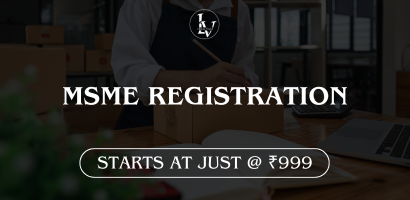
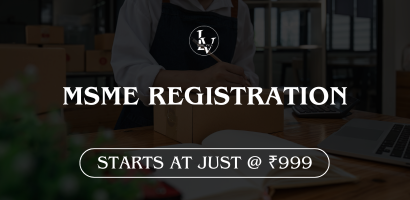
required changes done in about us, home page and all other screens

Changed region(s): [[0.439, 0.03, 0.5561, 0.27]]

diff --git a/src/pages/AboutUs.js b/src/pages/AboutUs.js
@@ -7,74 +7,80 @@ import "slick-carousel/slick/slick-theme.css";
 import Slider from "react-slick";
 
 const AboutUs = () => {
-    const testimonials = [
-        {
-          name: "Surendra Saini",
-          role: "Director, Domantra Innovations Pvt Ltd",
-          text: "We at Domantra Innovations are extremely satisfied with the company management services provided by Legalvala.Himanshu helped me with my ROC compliances and is always available for better solutions. Highly recommended!",
-          image: "/assets/people/boy (1).png",
-        },
-        {
-          name: "Satish Chauhan",
-          role: "CPPO, Blazing Render Creation Hub LLP",
-          text: "I got my GST registration done through Legalvala, and I am very happy with their service. The team is highly professional and handled everything smoothly. I highly recommend Legalvala for all your legal and business needs!",
-          image: "/assets/people/man-with-glasses.png",
-        },
-        {
-          name: "Mohini Bhadoriya",
-          role: "Director, Startfinity Navigator Pvt Ltd",
-          text: "I availed the Company Registration and Compliance Package from Legalvala. Their pricing was the best in the market, and the entire process was fast, smooth, and transparent. I continue to work with them for their excellent service.",
-          image: "/assets/people/girl (1).png",
-        },
-        {
-          name: "Gajendra Singh",
-          role: "Proprietor, Deepika Enterprises",
-          text: "I am very happy with the GST registration service from Legalvala. Their team was professional, and we received our GST certificate within 4-5 days! Highly recommend them for quick and reliable legal services. Thank you!",
-          image: "/assets/people/boy (2).png",
-        },
-        {
-          name: "Akash Kumar",
-          role: "Relationship Manager, HDFC Bank Ltd",
-          text: "I got my Income Tax Return filed through Legalvala, and it was a great experience! The process was quick, hassle-free, and transparent. Their team is highly professional and supportive. Definitely a 5-star experience!",
-          image: "/assets/people/boy.png",
-        },
-        {
-          name: "Charan Singh",
-          role: "Owner, PTSK Traders",
-          text: "I got my GST Registration and GST Return Filing done through Legalvala, and their service has been excellent! Their team is highly professional and efficient. They continue to handle my GST filings with great expertise.",
-          image: "/assets/people/man-with-glasses.png",
-        },
-        {
-          name: "Dr Arul Ghandhi",
-          role: "Director, Narmada Exploration & Mining Pvt Ltd",
-          text: "I got ISO 9001, ISO 14001, and OEM certificates for my company from Legalvala. Their service was outstanding! After facing a scam elsewhere, Legalvala regained my trust. Special thanks to Himanshu Ji for handling everything smoothly.",
-          image: "/assets/people/boy.png",
-        },
-      ];
-      
+  const testimonials = [
+    {
+      name: "Surendra Saini",
+      role: "Director, Domantra Innovations Pvt Ltd",
+      text: "We at Domantra Innovations are extremely satisfied with the company management services provided by Legalvala.Himanshu helped me with my ROC compliances and is always available for better solutions. Highly recommended!",
+      image: "/assets/people/boy (1).png",
+    },
+    {
+      name: "Satish Chauhan",
+      role: "CPPO, Blazing Render Creation Hub LLP",
+      text: "I got my GST registration done through Legalvala, and I am very happy with their service. The team is highly professional and handled everything smoothly. I highly recommend Legalvala for all your legal and business needs!",
+      image: "/assets/people/man-with-glasses.png",
+    },
+    {
+      name: "Mohini Bhadoriya",
+      role: "Director, Startfinity Navigator Pvt Ltd",
+      text: "I availed the Company Registration and Compliance Package from Legalvala. Their pricing was the best in the market, and the entire process was fast, smooth, and transparent. I continue to work with them for their excellent service.",
+      image: "/assets/people/girl (1).png",
+    },
+    {
+      name: "Gajendra Singh",
+      role: "Proprietor, Deepika Enterprises",
+      text: "I am very happy with the GST registration service from Legalvala. Their team was professional, and we received our GST certificate within 4-5 days! Highly recommend them for quick and reliable legal services. Thank you!",
+      image: "/assets/people/boy (2).png",
+    },
+    {
+      name: "Akash Kumar",
+      role: "Relationship Manager, HDFC Bank Ltd",
+      text: "I got my Income Tax Return filed through Legalvala, and it was a great experience! The process was quick, hassle-free, and transparent. Their team is highly professional and supportive. Definitely a 5-star experience!",
+      image: "/assets/people/boy.png",
+    },
+    {
+      name: "Charan Singh",
+      role: "Owner, PTSK Traders",
+      text: "I got my GST Registration and GST Return Filing done through Legalvala, and their service has been excellent! Their team is highly professional and efficient. They continue to handle my GST filings with great expertise.",
+      image: "/assets/people/man-with-glasses.png",
+    },
+    {
+      name: "Dr Arul Ghandhi",
+      role: "Director, Narmada Exploration & Mining Pvt Ltd",
+      text: "I got ISO 9001, ISO 14001, and OEM certificates for my company from Legalvala. Their service was outstanding! After facing a scam elsewhere, Legalvala regained my trust. Special thanks to Himanshu Ji for handling everything smoothly.",
+      image: "/assets/people/boy.png",
+    },
+  ];
 
-      const team = [
-        {
-          name: "Mr. Himanshu",
-          role: "Manager / Sr. Consultant / Director",
-          about: "Mr. Himanshu is the Senior Consultant and Manager at LEGALVALA. With over five years of experience in the legal field, he specializes in business compliance and legal advisory. He holds a Bachelor of Business Administration from DBRAU Agra and is currently pursuing CMA from the ICMAI Institute.",
-          image: "/assets/people/himanshu.jpeg",
-        },
-        {
-          name: "Mr. Gajendra Singh",
-          role: "Founder / CEO",
-          about: "Mr. Gajendra Singh is the Founder and CEO of LEGALVALA. With over 15 years of experience in legal services and business management, he has helped numerous businesses achieve compliance and operational efficiency. He holds a Bachelor of Commerce degree from DBRAU.",
-          image: "/assets/people/gajedra.jpeg",
-        },
-        {
-          name: "Mrs. Sakshi Katariya",
-          role: "Human Resources & Consultant",
-          about: "Mrs. Sakshi Katariya is the HR & Consultant at LEGALVALA, responsible for managing the team and overseeing compliance processes. With over three years of experience in human resources and consulting, she has been recognized with the 'Best Consultant' award from LEGALVALA for her outstanding contributions.",
-          image: "/assets/people/sakshi.jpeg",
-        },
-      ];
-      
-      
+
+  const team = [
+    {
+      name: "Mr. Himanshu",
+      role: "Manager / Sr. Consultant / Director",
+      about: "Mr. Himanshu is the Senior Consultant and Manager at LEGALVALA. With over five years of experience in the legal field, he specializes in business compliance and legal advisory. He holds a Bachelor of Business Administration from DBRAU Agra and is currently pursuing CMA from the ICMAI Institute.",
+      image: "/assets/people/himanshu.jpeg",
+    },
+    {
+      name: "Mr. Gajendra Singh",
+      role: "Founder / CEO",
+      about: "Mr. Gajendra Singh is the Founder and CEO of LEGALVALA. With over 15 years of experience in legal services and business management, he has helped numerous businesses achieve compliance and operational efficiency. He holds a Bachelor of Commerce degree from DBRAU.",
+      image: "/assets/people/gajedra.jpeg",
+    },
+    {
+      name: "Mrs. Sakshi Katariya",
+      role: "Human Resources & Consultant",
+      about: "Mrs. Sakshi Katariya is the HR & Consultant at LEGALVALA, responsible for managing the team and overseeing compliance processes. With over three years of experience in human resources and consulting, she has been recognized with the 'Best Consultant' award from LEGALVALA for her outstanding contributions.",
+      image: "/assets/people/sakshi.jpeg",
+    },
+    {
+      name: "Mrs. Shweta Katariya",
+      role: "Business Consultant",
+      about: "Mrs. Shweta Katariya is a Business Consultant at LegalVala, bringing over 3 years of experience in business strategy and legal services. A B.Com graduate from DBRAU, Shweta specializes in helping businesses navigate legal complexities and optimize their operations. At LegalVala, she provides tailored solutions that ensure clients achieve compliance, growth, and success in a competitive market.",
+      image: "/assets/people/shweta.png",
+    },
+  ];
+
+
 
   const settings = {
     dots: true,
@@ -108,10 +114,25 @@ const AboutUs = () => {
       <section className="container py-5">
         <h6 className="guide-text">INTRODUCTION</h6>
         <h5 className="text-center pb-3"><strong>Who We Are</strong></h5>
-        <p className="text-center">
-          LEGALVALA CONSULTANCY LLP is a leading legal and business consultancy firm in India, dedicated to helping individuals, startups, and enterprises navigate legal complexities with ease. 
-          Established in 2020, we have assisted thousands of clients in company registration, tax compliance, trademark registration, and business law.
+
+        <p>
+          Welcome to <strong>LegalVala</strong> - your trusted partner in the world of legal and business services since 2020. We specialize in providing innovative, clear, and effective solutions that empower businesses to not only survive but thrive in today’s fast-paced market.
+          <br /><br />
+          At LegalVala, we understand the challenges businesses face when it comes to legal complexities. That’s why we offer a combination of expert legal advice and smart business strategies designed to help you streamline operations, ensure compliance, and reduce risks. Whether you're a new startup or an established company, we tailor our services to meet your unique needs.
+          <br /><br />
+          Our mission is simple: to make legal and business processes easier, more efficient, and more accessible for every client. We are passionate about building strong relationships and providing support that fosters growth and success.
+          <br /><br />
+          <strong>Why Choose LegalVala?</strong>
+          <ul className="text-start">
+            <li><strong>Expert Legal & Business Services:</strong> We combine legal expertise with strategic business advice to help you navigate every challenge with confidence.</li>
+            <li><strong>Experience You Can Trust:</strong> Since 2020, we’ve helped countless businesses optimize their legal and business strategies for lasting success.</li>
+            <li><strong>Personalized Solutions:</strong> We understand that every business is different. Our services are customized to fit your specific goals and challenges.</li>
+            <li><strong>Results-Oriented Approach:</strong> We’re dedicated to delivering practical solutions that lead to real, measurable outcomes for your business.</li>
+          </ul>
+          <br />
+          At LegalVala, we don’t just provide legal services—we partner with you to drive your business forward. Let us help you achieve your goals, so you can focus on what matters most—growing your business!
         </p>
+
       </section>
 
       {/* OUR EXPERTISE */}
@@ -167,7 +188,14 @@ const AboutUs = () => {
           {team.map((member, index) => (
             <div key={index} className="col-md-4 p-3">
               <div className="card shadow-sm p-3">
-                <img src={member.image} alt={member.name} className="team-img" width="80" />
+                {/* <img src={member.image} alt={member.name} className="team-img" width="100" /> */}
+                <img
+                  src={member.image}
+                  alt={member.name}
+                  width="100"
+                  height="120"
+                  style={{ borderRadius: "0" }}
+                />
                 <h6 className="fw-bold">{member.name}</h6>
                 <p className="text-muted">{member.role}</p>
                 <p className="small">{member.about}</p>

diff --git a/src/pages/Acasa.js b/src/pages/Acasa.js
@@ -15,7 +15,7 @@ const Acasa = () => {
       <div className="home-page">
         <Helmet>
           <title>LegalVala | Legal & Business Solutions</title>
-          
+
           <meta
             name="description"
             content="LegalVala offers professional legal, tax, and business consultancy services, ensuring compliance and growth for individuals and businesses."
@@ -68,7 +68,7 @@ const Acasa = () => {
                   </Link>
                 </div>
                 <div className="col flex-grow-1">
-                  <Link to="/informatii-utile">
+                  <Link to="/avocatura">
                     <button
                       className="btn btn-lg btn-outline-dark type-button p-4 w-100 fw-bold"
                       aria-label="Our Services"
@@ -130,15 +130,15 @@ const Acasa = () => {
               <div className="card-body">
                 <h6 className="guide-text mb-4">INTRODUCTION</h6>
                 <h5 className="lh-base text-center pb-4">
-                  Facing Legal or Business Challenges?
+                  <strong>Facing Legal or Business Challenges?</strong>
                 </h5>
 
                 <p className="text-separator fw-normal text-center px-3">
-  At <strong>LegalVala</strong>, we provide expert guidance in legal, tax, and business compliance. 
-  Our goal is to <strong>simplify complexities</strong> so you can focus on growth.
-  Whether you're an <strong>entrepreneur</strong>, a <strong>startup</strong>, or an <strong>established business</strong>, 
-  we ensure your legal and business needs are met with precision and expertise.
-</p>
+                  At <strong>LegalVala</strong>, we provide expert guidance in legal, tax, and business compliance.
+                  Our goal is to <strong>simplify complexities</strong> so you can focus on growth.
+                  Whether you're an <strong>entrepreneur</strong>, a <strong>startup</strong>, or an <strong>established business</strong>,
+                  we ensure your legal and business needs are met with precision and expertise.
+                </p>
 
               </div>
             </div>
@@ -160,7 +160,7 @@ const Acasa = () => {
         <section className="recommendation p-3 bg-image m-3 px-0">
           <h6 className="guide-text ">OUR EXPERTISE</h6>
           <div className="container d-flex flex-column justify-content-center align-items-center">
-            <h5 className="h-50 lh-base text-center pb-4">Why Choose LEGALVALA?</h5>
+            <h5 className="h-50 lh-base text-center pb-4"><strong>Why Choose LEGALVALA?</strong></h5>
           </div>
           <div className="row mt-4 flex-column flex-md-row mb-3">
             <div className="col col-md-7 order-md-2">
@@ -184,7 +184,7 @@ const Acasa = () => {
             </div>
           </div>
         </section>
-               
+
 
       </div>
     </>

diff --git a/src/pages/Avocatura.js b/src/pages/Avocatura.js
@@ -6,9 +6,9 @@ import ContactForm from "../components/ContactForm";
 const services = [
   { name: "GST REGISTRATION", price: "1499", image: "/assets/product/1.png", description: "Get your GST registered and start your business legally in India." },
   { name: "MSME REGISTRATION", price: "999", image: "/assets/product/2.png", description: "Avail benefits under the MSME scheme for small and medium businesses." },
-  { name: "PRIVATE LIMITED COMPANY REGISTRATION", price: "7999", image: "/assets/product/3.png", description: "Incorporate a Private Limited Company with ease." },
-  { name: "OPC COMPANY REGISTRATION", price: "5999", image: "/assets/product/4.png", description: "Register your One Person Company and get limited liability benefits." },
-  { name: "LLP COMPANY REGISTRATION", price: "6999", image: "/assets/product/5.png", description: "Start your Limited Liability Partnership (LLP) with complete legal support." },
+  { name: "PRIVATE LIMITED COMPANY REGISTRATION", price: "7999", image: "/assets/product/4.png", description: "Incorporate a Private Limited Company with ease." },
+  { name: "OPC COMPANY REGISTRATION", price: "5999", image: "/assets/product/5.png", description: "Register your One Person Company and get limited liability benefits." },
+  { name: "LLP COMPANY REGISTRATION", price: "6999", image: "/assets/product/3.png", description: "Start your Limited Liability Partnership (LLP) with complete legal support." },
   { name: "PUBLIC LIMITED COMPANY REGISTRATION", price: "14999", image: "/assets/product/6.png", description: "Form a Public Limited Company and expand your business reach." },
   { name: "SECTION 8 COMPANY REGISTRATION", price: "7999", image: "/assets/product/7.png", description: "Register your non-profit organization under Section 8." },
   { name: "NGO REGISTRATION", price: "6999", image: "/assets/product/8.png", description: "Start an NGO legally and get the necessary approvals." },

diff --git a/src/App.js b/src/App.js
@@ -1,4 +1,4 @@
-import React from "react";
+import React, { useState } from "react";
 import { BrowserRouter, Routes, Route } from "react-router-dom";
 import { Helmet } from "react-helmet";
 import Info from "./pages/Info";
@@ -10,15 +10,40 @@ import Navbar from "./components/Navbar";
 import Footer from "./components/Footer";
 import ErrorPage from "./pages/ErrorPage";
 import AboutUs from "./pages/AboutUs";
+import ContactForm from "./components/ContactForm";
 
 function App() {
+
+  const [showModal, setShowModal] = useState(true);
+  const [selectedService, setSelectedService] = useState("");
+
+  const openModal = (serviceName) => {
+    setSelectedService(`Hello, I am interested in ${serviceName}. Please provide me with more details.`);
+    setShowModal(true);
+  };
+
+  const closeModal = () => {
+    setShowModal(false);
+    setSelectedService("");
+  };
+
   return (
     <div className="App">
+      <>
+        {showModal && (
+          <div className="modal-overlay" onClick={closeModal}>
+            <div className="modal-content" onClick={(e) => e.stopPropagation()}>
+              <span className="close-modal" onClick={closeModal}>&times;</span>
+              <ContactForm defaultMessage={selectedService} onClose={closeModal} />
+            </div>
+          </div>
+        )}
+      </>
       <>
         <BrowserRouter>
           <Helmet>
             <title>
-              Blazing Render Creation Hub LLP 
+              Blazing Render Creation Hub LLP
             </title>
             <meta
               name="BRC Hub LLP"

diff --git a/src/components/Footer.js b/src/components/Footer.js
@@ -26,7 +26,7 @@ const Footer = () => {
                   height="50"
                 />
                 <img
-                  src="/assets/component.png"
+                  src="/assets/legalvala-top.png"
                   className="img-fluid px-4 logo-text"
                   alt="LegalVala"
                   width="150"

diff --git a/src/components/Navbar.js b/src/components/Navbar.js
@@ -20,7 +20,7 @@ const Navbar = () => {
                   height="70"
                 />
                 <img
-                  src="/assets/component.png"
+                  src="/assets/legalvala-top.png"
                   className="img-fluid px-4 logo-text"
                   alt="LegalVala"
                   width="200"
